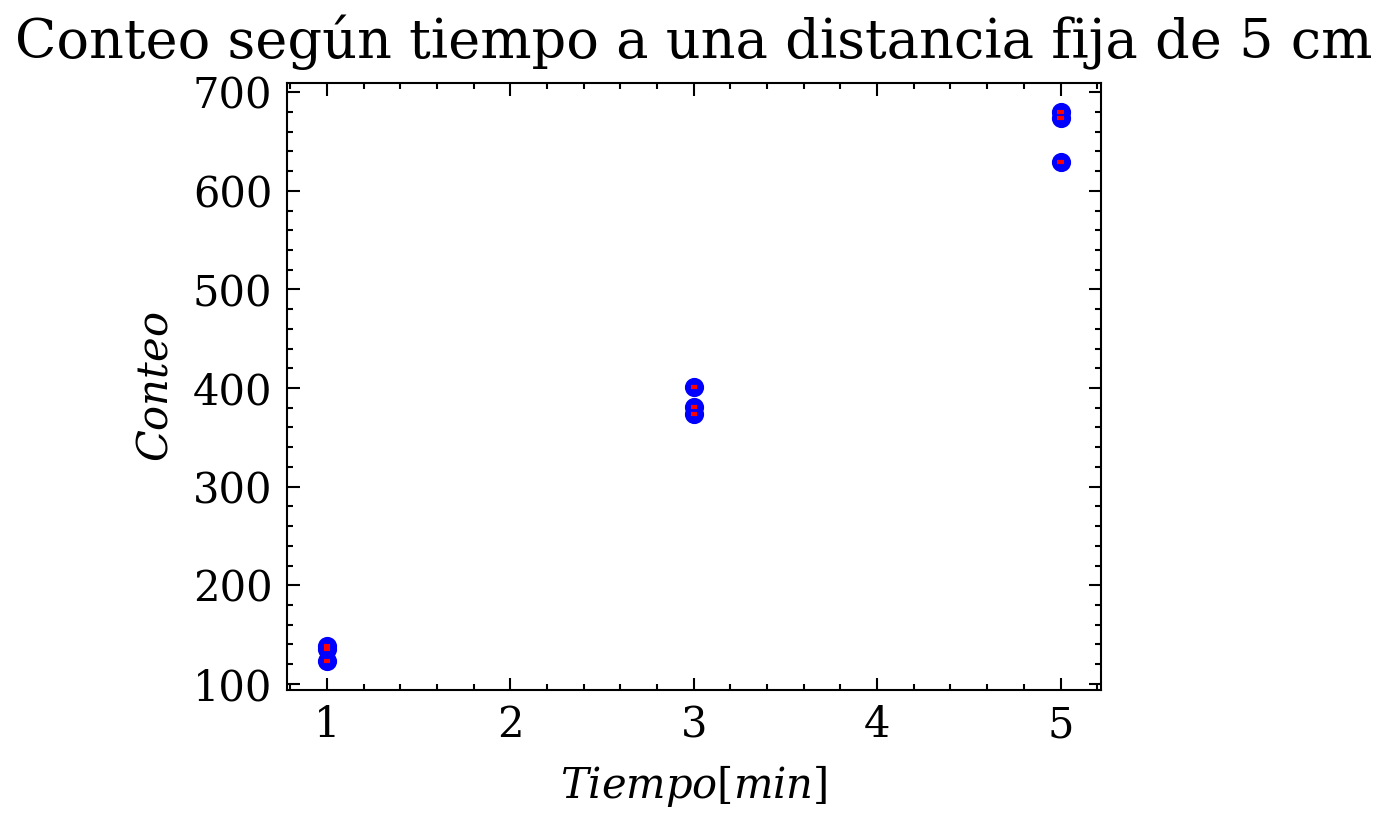
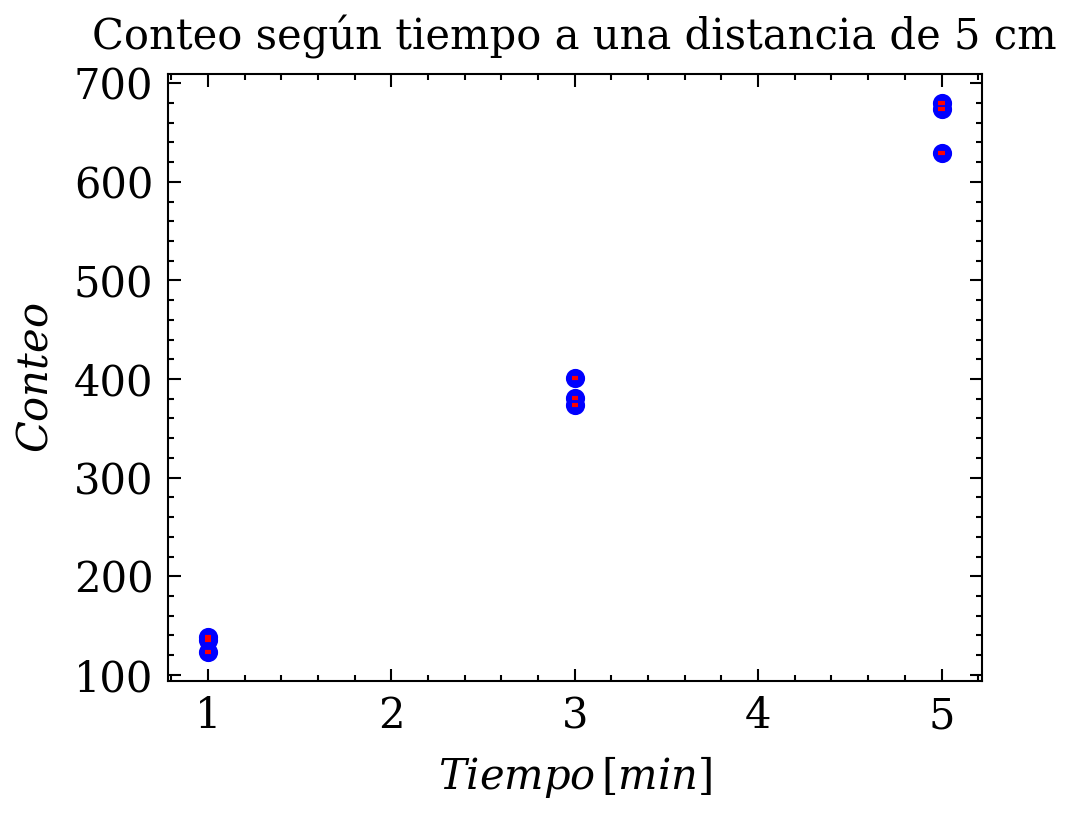
final analisis Radioactividad

diff --git a/Exp5 - Radioactividad/radioactividad.py b/Exp5 - Radioactividad/radioactividad.py
@@ -1,12 +1,43 @@
 import matplotlib.pyplot as plt
 import numpy as np
-import math 
+import math
+from scipy.optimize import curve_fit
 
 def main():
+    
     
     #plt.style.use('science')
     plt.style.use(['science','no-latex'])
     
+    print("Laboratorio FM: Exp5 - Radioactividad")
+    
+    seguir = True
+    while seguir == True:
+        
+        punto = input("\nIngrese el punto: ")
+        
+        if punto == '1':
+            punto1()    
+        elif punto == '21':
+            punto21()
+        elif punto == '22':
+            punto22()
+        elif punto == '3':
+            punto3()    
+        elif punto == '4':
+            punto4()
+       
+        else:
+            print("Punto no encontrado")
+            continuar = input("Desea continuar? (s/n): ")
+            if continuar == 'n':
+                seguir = False
+            else:
+                seguir = True
+    
+    print("\nFin del programa")
+        
+def punto21():
     
     tiempo = [1]*3+[3]*3+[5]*3 # x
     error_x = 0.017
@@ -17,18 +48,104 @@ def main():
     
     fig = plt.figure()
     ax = fig.add_subplot()
-    ax.set_xlabel(r'$Tiempo [min]$',fontsize=10)
+    ax.set_xlabel(r'$Tiempo\,[min]$',fontsize=10)
     ax.set_ylabel(r'$Conteo$',fontsize=10)
-    ax.set_title('Conteo según tiempo a una distancia fija de 5 cm',fontsize=13)
+    #ax.set_title('Conteo según tiempo a una distancia de 5 cm',fontsize=10)
     
     ax.scatter(tiempo, conteo, c='b',s=13, marker='o', label='Datos')
 
     for i in range(len(tiempo)):
         plt.errorbar(tiempo[i], conteo[i], yerr=error_y, xerr=error_x, fmt='r', ecolor='r')
      
-    plt.savefig('Exp5 - Radioactividad - Punto 2', dpi=300, bbox_inches='tight')
+    plt.savefig('radioactividad-punto2', dpi=300, bbox_inches='tight')
+    plt.show()
+
+
+def punto22():
+   
+    tiempo = [1]*3+[3]*3+[5]*3 # x
+    error_x = 0.017
+    
+    conteo = [0.817507418,0.795252226,0.799703264,0.445103858,
+              0.40504451,0.434718101,0.038575668,0.066765579,0] # y
+    error_y = 1
+    
+    
+    fig = plt.figure()
+    ax = fig.add_subplot()
+    ax.set_xlabel(r'$Tiempo\,[min]$',fontsize=10)
+    ax.set_ylabel(r'$1\,-\,conteo\,normalizado$',fontsize=10)
+    #ax.set_title('Conteo según tiempo a una distancia de 5 cm',fontsize=10)
+    
+    ax.scatter(tiempo, conteo, c='b',s=13, marker='o', label='Datos')
+
+    #for i in range(len(tiempo)):
+    #    plt.errorbar(tiempo[i], conteo[i], yerr=error_y, xerr=error_x, fmt='r', ecolor='r')
+     
+    plt.savefig('radioactividad-poisson', dpi=300, bbox_inches='tight')
     plt.show()
     
+   
+   
+   
+   
+def punto4():
+
+
+    y = [370,357,345,335,128,127,123,135,84,79,82,96,
+            66,62,52,57,51,38,49,50]
+ 
+    x = [2]*4+[4]*4+[6]*4+[8]*4+[10]*4
+    
+    def func1(x, a, b):
+        return a/np.polyval([1,0,0], x) +b #x**2
+    
+    def func2(x, a, b):
+        return a/np.polyval([0,1,0], x) +b
+    
+    
+    num = input('Ingrese el numero de funcion a utilizar: ')
+    if num == '1':
+        print("función cuadratica")
+        func = func1
+    else:
+        print("función lineal")
+        func = func2
+        
+    params, covs = curve_fit(func, x, y)
+
+    perr = np.sqrt(np.diag(covs))
+    print(f'perr = {perr}')
+    
+    y_fit = func(x, *params)
+    
+    # residual sum of squares
+    ss_res = np.sum((y - y_fit) ** 2)
+
+    # total sum of squares
+    ss_tot = np.sum((y - np.mean(y)) ** 2)
+
+    # r-squared
+    r2 = 1 - (ss_res / ss_tot)
+        
+    print(r2)
+    
+    fig = plt.figure()
+    ax = fig.add_subplot()
+    ax.set_xlabel(r'$Distancia\,[cm]$',fontsize=10)
+    ax.set_ylabel(r'$Conteo$',fontsize=10)
+    
+    ax.scatter(x,y, label='Datos', c='b',s=13)
+    ax.plot(np.linspace(2, 10, 1000), func(np.linspace(2, 10, 1000), *params), label='Ajuste', c='r')
+    #plt.plot(np.linspace(2, 10, 1000), func(np.linspace(2, 10, 1000), params[0], params[1]))
+    #plt.plot(np.linspace(2, 10, 1000), func(np.linspace(2, 10, 1000), params[0], params[1]))
+    
+    plt.legend()
+    plt.savefig('radioactividad-distancia', dpi=300, bbox_inches='tight')
+    plt.show()
+
+
+
 
 if __name__ == "__main__":
     main()
